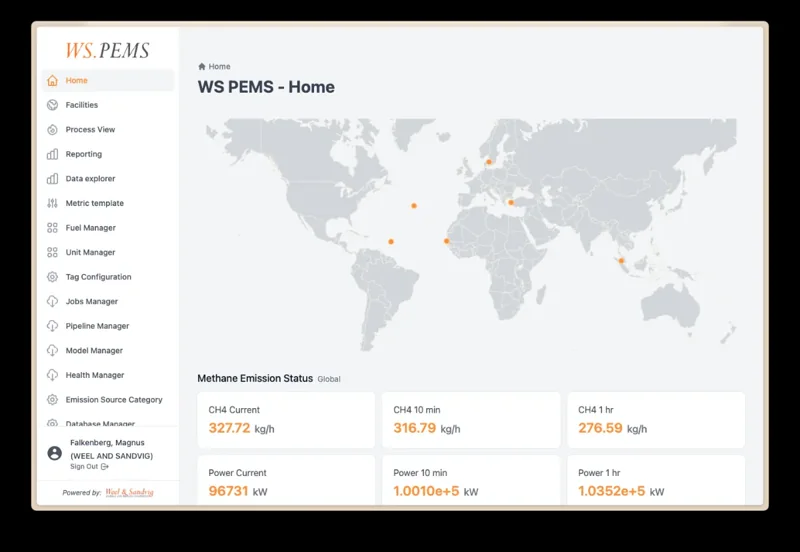
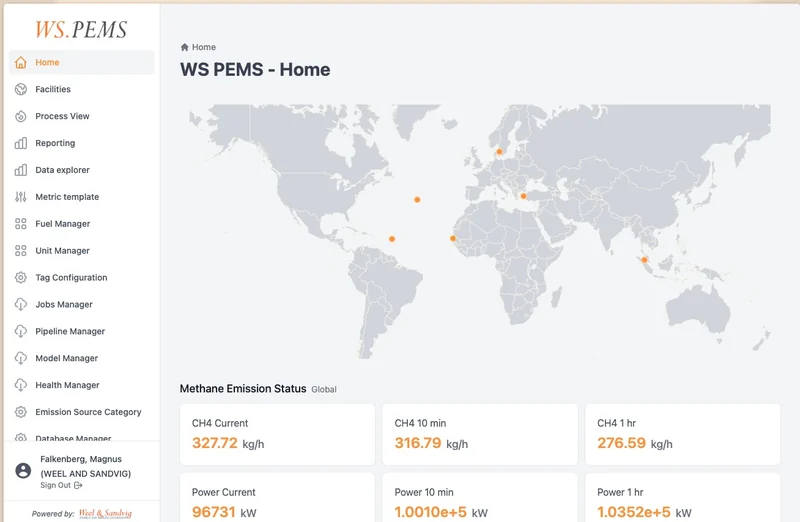
Industry Transformation: offshore platform home slide, plant pipes page hero, clean WS.PEMS screenshot
Claude-Session: https://claude.ai/code/session_019gMymePghk3WRCpa2UPwxG

diff --git a/v3bf/industry-transformation.html b/v3bf/industry-transformation.html
@@ -21,7 +21,7 @@
   <link rel="icon" href="../assets/img/logo.png">
   <link rel="preconnect" href="https://fonts.googleapis.com">
   <link rel="preconnect" href="https://fonts.gstatic.com" crossorigin>
-  <link rel="preload" as="image" href="../assets/img/services/ws-refinery-night.webp" imagesrcset="../assets/img/services/ws-refinery-night-800.webp 800w, ../assets/img/services/ws-refinery-night.webp 1200w" imagesizes="100vw" fetchpriority="high">
+  <link rel="preload" as="image" href="../assets/img/services/ws-plant-pipes.webp" imagesrcset="../assets/img/services/ws-plant-pipes-800.webp 800w, ../assets/img/services/ws-plant-pipes.webp 1600w" imagesizes="100vw" fetchpriority="high">
   <link href="https://fonts.googleapis.com/css2?family=Readex+Pro:wght@400;500;600;700&family=IBM+Plex+Sans:wght@400;500;600&display=swap" rel="stylesheet">
   <link rel="stylesheet" href="../assets/css/styles.css?v=ba67df1f">
   <link rel="stylesheet" href="../assets/css/services.css?v=f5efd716">
@@ -56,13 +56,13 @@
         <p class="s-hero__lead">Measure, report and cut industrial emissions — with model-based software that helps energy-intensive industry move towards net zero.</p>
       </div>
       <div class="container">
-        <img class="s-hero__img" src="../assets/img/services/ws-refinery-night.webp" srcset="../assets/img/services/ws-refinery-night-800.webp 800w, ../assets/img/services/ws-refinery-night.webp 1200w" sizes="(max-width: 1240px) 100vw, 1200px" width="1200" height="801" alt="Refinery stacks lit up at dusk" fetchpriority="high">
+        <img class="s-hero__img" src="../assets/img/services/ws-plant-pipes.webp" srcset="../assets/img/services/ws-plant-pipes-800.webp 800w, ../assets/img/services/ws-plant-pipes.webp 1600w" sizes="(max-width: 1240px) 100vw, 1200px" width="1600" height="1000" alt="Insulated process pipework and a stack at an industrial plant" fetchpriority="high">
       </div>
     </section>
 
     <section class="section">
       <div class="container s-split">
-        <img class="s-split__img" src="../assets/img/services/ws-pems-dashboard.webp" srcset="../assets/img/services/ws-pems-dashboard-800.webp 800w, ../assets/img/services/ws-pems-dashboard.webp 1200w" sizes="(max-width: 900px) 100vw, 45vw" width="1200" height="828" alt="WS.PEMS dashboard showing methane emission status across facilities" loading="lazy" decoding="async">
+        <img class="s-split__img" style="height:auto;min-height:0;max-height:none;aspect-ratio:auto;align-self:center;object-fit:contain;background:#fff;border:1px solid #E3E8E4" src="../assets/img/services/ws-pems-dashboard.webp" srcset="../assets/img/services/ws-pems-dashboard-800.webp 800w, ../assets/img/services/ws-pems-dashboard.webp 1308w" sizes="(max-width: 900px) 100vw, 45vw" width="1308" height="854" alt="WS.PEMS dashboard showing methane emission status across facilities" loading="lazy" decoding="async">
         <div class="s-split__text">
           <span class="s-pill">Overview</span>
           <h2 class="h2">Industry Transformation with A'amal Group</h2>

diff --git a/v3bf/index.html b/v3bf/index.html
@@ -56,7 +56,7 @@
       <img class="hero__slide" src="../assets/img/hero-refinery.webp" srcset="../assets/img/hero-refinery-800.webp 800w, ../assets/img/hero-refinery.webp 1200w" sizes="100vw" width="1200" height="900" alt="Refinery towers and storage tanks" data-label="Industrial Operations &amp; Maintenance" loading="lazy" decoding="async">
       <img class="hero__slide" src="../assets/img/services/ei-pipeline-hero.webp" srcset="../assets/img/services/ei-pipeline-hero-800.webp 800w, ../assets/img/services/ei-pipeline-hero.webp 1280w" sizes="100vw" width="1280" height="720" alt="Engineer inspecting pipework and valves at a gas processing plant" data-label="Electrical &amp; Instrumentation" loading="lazy" decoding="async">
       <img class="hero__slide" src="../assets/img/services/wp-polyurea-hero.webp" srcset="../assets/img/services/wp-polyurea-hero-800.webp 800w, ../assets/img/services/wp-polyurea-hero.webp 1112w" sizes="100vw" width="1112" height="626" alt="Applicator spraying blue polyurea waterproofing on a rooftop in Riyadh" data-label="Waterproofing &amp; Industrial Coating" loading="lazy" decoding="async">
-      <img class="hero__slide" src="../assets/img/services/ws-refinery-night.webp" srcset="../assets/img/services/ws-refinery-night-800.webp 800w, ../assets/img/services/ws-refinery-night.webp 1200w" sizes="100vw" width="1200" height="801" alt="Refinery stacks lit up at dusk" data-label="Industry Transformation" loading="lazy" decoding="async">
+      <img class="hero__slide" src="../assets/img/services/ws-offshore-platform.webp" srcset="../assets/img/services/ws-offshore-platform-800.webp 800w, ../assets/img/services/ws-offshore-platform.webp 1600w" sizes="100vw" width="1600" height="1061" alt="Offshore oil and gas platform lit up at dusk" data-label="Industry Transformation" loading="lazy" decoding="async">
       <img class="hero__slide" src="../assets/img/services/hr-field-team.webp" srcset="../assets/img/services/hr-field-team-800.webp 800w, ../assets/img/services/hr-field-team.webp 1200w" sizes="100vw" width="1200" height="587" alt="Two field engineers in safety gear reviewing a tablet at an industrial plant" data-label="Human Resource Management" loading="lazy" decoding="async">
       <img class="hero__slide" src="../assets/img/services/pm-sunset-hero.webp" srcset="../assets/img/services/pm-sunset-site-800.webp 800w, ../assets/img/services/pm-sunset-hero.webp 1920w" sizes="(max-width: 760px) 260px, 100vw" width="1920" height="1080" alt="Towers under construction at sunset with a project schedule overlay" data-label="Project Management Solution" loading="lazy" decoding="async">
       <div class="hero__overlay"></div>
